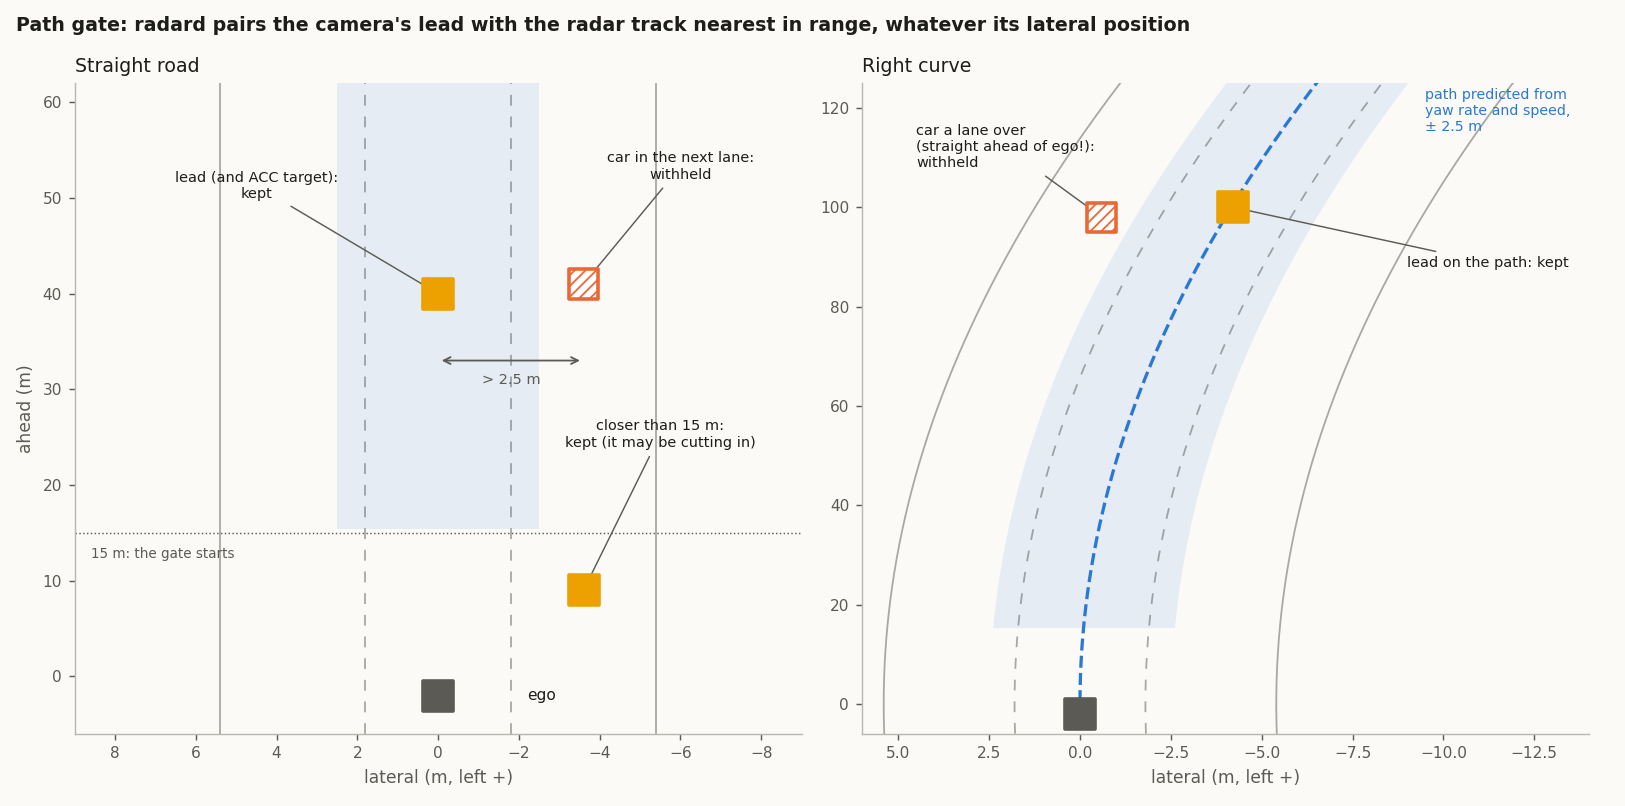
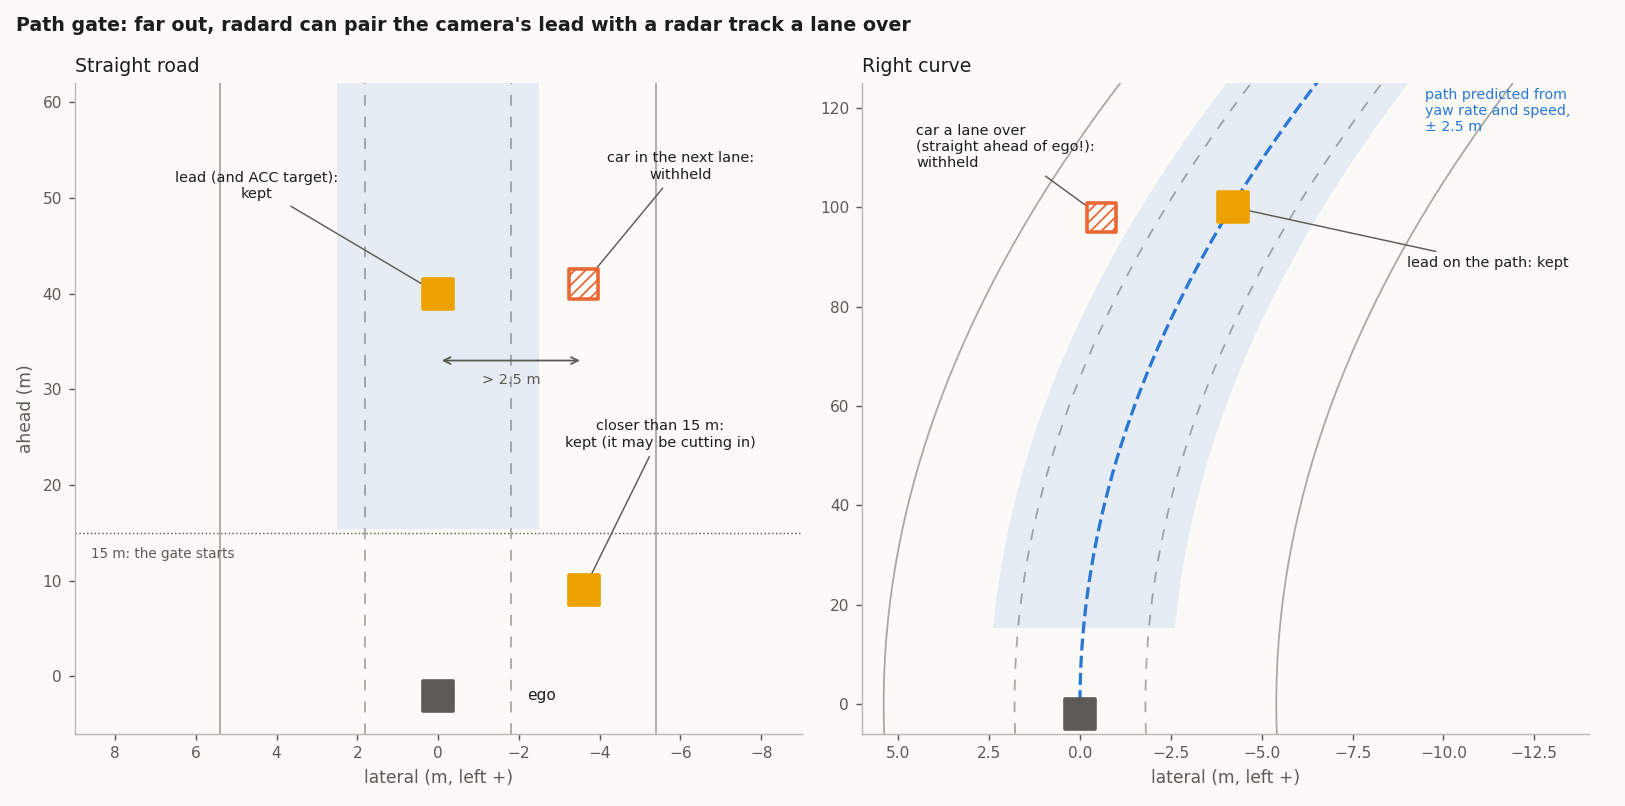
docs: second confirmation pass; radard lateral weighting; listing table from its JSON; privacy check catches route fragments (#96)

Changed region(s): [[0.0923, 0.0, 0.7385, 0.062]]

diff --git a/upstream/ars510_radar.py b/upstream/ars510_radar.py
@@ -6,9 +6,9 @@ object; the radar keeps an object in its slot while the slot's age counts up, wh
 
 The slot speed has slow, correlated errors at range (false closings of 1-10 s beyond ~40 m). The radar reports their
 size in 240|7. One Kalman filter per track fuses the slot speed, weighted by that code, with the radar's own ACC target
-(0x235 / 0x237) for the track it describes. radard then filters as for any radar. radard pairs the vision lead with
-the track nearest in range and has no lateral gate, so beyond 15 m a track a lane away from the yaw-predicted path
-is not published.
+(0x235 / 0x237) for the track it describes. radard then filters as for any radar. radard's lead match weights
+lateral position only through the camera's uncertainty, so beyond 15 m a track a lane away from the yaw-predicted path
+is withheld.
 Single-file candidate for upstream; ars510-radar docs/12 has the evidence for every constant and every omitted part.
 """
 import zlib

diff --git a/openpilot/ars510_radar_interface.py b/openpilot/ars510_radar_interface.py
@@ -12,7 +12,8 @@ Worth knowing (docs/07, docs/08, docs/12):
   - vRel has occasional 1-10 s excursions (mostly false closings beyond 40 m); the default `fused` speed filter handles them;
   - the radar drops new stationary objects once ego is above ~2-3 m/s, so a car that was already stopped when it came
     into view comes from vision;
-  - radard pairs the vision lead with the radar track nearest in range; `fused` adds a yaw-rate path gate.
+  - radard weights lateral position only through the camera's uncertainty when it picks the lead; `fused` adds a
+    yaw-rate path gate.
 
 Why there is no CANParser: the object list is ONE 742-byte record sent as 106 ISO-TP-style frames on 0x80 every
 ~60 ms. CANParser keeps only the latest value per address (or a per-call list in vl_all), and a DBC cannot say which

diff --git a/tools/make_guide_figures.py b/tools/make_guide_figures.py
@@ -116,7 +116,7 @@ def lead_guards() -> None:
   _car(ax, path[k] + 3.6, 98, S2, kept=False); ax.annotate("car a lane over\n(straight ahead of ego!):\nwithheld", (path[k] + 3.6, 98),
                                                        xytext=(4.5, 108), fontsize=8, arrowprops=dict(arrowstyle="-", color=INK2, lw=0.8))
   ax.set_title("Right curve", loc="left"); ax.set_xlabel("lateral (m, left +)")
-  fig.suptitle("Path gate: radard pairs the camera's lead with the radar track nearest in range, whatever its lateral position",
+  fig.suptitle("Path gate: far out, radard can pair the camera's lead with a radar track a lane over",
                x=0.01, ha="left", fontsize=10.5, color=INK, weight="bold")
   fig.tight_layout(); fig.savefig(OUT / "guide_lead_guards.png", dpi=130); plt.close(fig)
 

diff --git a/tools/check_privacy.py b/tools/check_privacy.py
@@ -20,6 +20,8 @@ REPO = Path(__file__).resolve().parents[1]
 BINARY = {".png", ".jpg", ".jpeg", ".gif", ".gz", ".parquet", ".zst", ".bz2", ".pdf", ".pyc"}
 PATTERNS = {  # privacy-ok
   "openpilot route id": re.compile(r"\b[0-9a-f]{8}--[0-9a-f]{10}\b"),  # privacy-ok
+  # a bare 10-hex route part next to the word "route" (for example a route named in a JSON note); needs a letter and a digit
+  "openpilot route fragment": re.compile(r"\broute[ _:=\"']{1,3}(?=[0-9a-f]{0,9}[a-f])(?=[0-9a-f]{0,9}\d)[0-9a-f]{10}\b", re.I),  # privacy-ok
   "openpilot route name (date form)": re.compile(r"\b\d{4}-\d{2}-\d{2}--\d{2}-\d{2}-\d{2}\b"),  # privacy-ok
   # 16 hex characters with both a digit and a letter, not a decimal fraction; the replay harness's fixed fake dongle
   # id a510a510a510a510 is allowed

diff --git a/ars510/interface.py b/ars510/interface.py
@@ -85,7 +85,8 @@ class NativeInterfaceConfig:
     acc_match_min_age: int = 20
     acc_sticky_jump_m: float = 8.0
     acc_sticky_max_cost: float = 4.0
-    # Path gate (radard has no lateral gate and pairs the vision lead with the track nearest in range): beyond
+    # Path gate (radard weights lateral position only through the camera's uncertainty and checks only distance and
+    # speed, so far out it can pair the vision lead with a car a lane over): beyond
     # path_gate_min_range_m, a track other than the ACC target's that is more than path_gate_m from the ego path predicted
     # from yaw rate and speed (constant curvature: y - yaw / v * d^2 / 2) is withheld: a car a lane over, also on a
     # curve. Closer in, cars moving into the lane must stay visible.

diff --git a/tools/make_analysis_figures.py b/tools/make_analysis_figures.py
@@ -344,7 +344,7 @@ def fault_injection():
         ax.set_ylim(0, 1)
     np.atleast_1d(axes)[0].set_ylabel("share of ticks radard picks the ghost")
     np.atleast_1d(axes)[0].legend(fontsize=8)
-    fig.suptitle("radard pairs by range: with the real lead missing, a ghost at the lead's distance and speed becomes the lead at every offset tested", y=1.02)
+    fig.suptitle("With the real lead missing, a ghost at the lead's distance and speed becomes radard's lead at every offset tested", y=1.02)
     save(fig, "radard_lateral_gate")
 
 

diff --git a/tests/test_privacy.py b/tests/test_privacy.py
@@ -13,6 +13,7 @@ CASES = [
   ("local home path", "/" + "home" + "/sample"),
   ("device recording path", "/data" + "/media/0" + "/realdata"),
   ("private IP address", ".".join(("172", "16", "0", "1"))),
+  ("openpilot route fragment", "route " + "1a2b3c4d" + "5e"),
 ]
 
 

diff --git a/docs/10_research_directions.md b/docs/10_research_directions.md
@@ -67,8 +67,8 @@ Proposed study:
 The goal: tell a velocity excursion from a real closing within about 1 s ([07](07_velocity_excursions.md)).
 
 1. **A far-range truth drive.** Following a second car that logs its own speed (a second comma device, or a 5-10 Hz GNSS
-   logger) at 40-120 m gives the lead's true velocity. The video-looming reference covers 40-110 m, with few windows
-   beyond 100 m, and shares the camera with the vision model.
+   logger) at 40-120 m gives the lead's true velocity. The video-looming reference spans 10-130 m, with 148 of its 2,657
+   windows beyond 90 m, and shares the camera with the vision model.
 2. **The first second of an excursion.** Velocity steps of a consistent size and sign at onset would point to
    wrong-branch Doppler measurements leaking into the tracker; ordinary-sized steps point to low-SNR tracking
    ([07](07_velocity_excursions.md#what-the-radars-waveform-allows)).
@@ -134,7 +134,7 @@ What other openpilot radar interfaces read from their radars, and the ARS510 cou
 | per-track **measured vs predicted** state (`RadarPoint.measured`) | Toyota `VALID` + `SCORE`, Rivian `STATE`, Tesla `Meas` | `107\|1` = predicted (◐) and `16\|8` = existence probability (◐); the fork build publishes `measured = not predicted` for forks that carry the field; upstream openpilot has deprecated it | in place in the fork build; excursions arrive on measured records, so this is hygiene |
 | **new-track** flag | Toyota `NEW_TRACK`, Rivian new states | derived from the age field (●) | in place |
 | the radar's own **relative** speed | `REL_SPEED` on Toyota, Honda, Hyundai, Chrysler | over-ground speed (`64\|10`) minus 0xB4 ego speed | the ACC target carries a relative speed for the followed car |
-| relative **acceleration** | Hyundai `REL_ACCEL`, Tesla `LongAccel` | `84\|10` over-ground acceleration (◐, lags 0.5-1 s); the ACC target's relative acceleration (●) | calibrate `84\|10` against independent motion |
+| relative **acceleration** | Hyundai `REL_ACCEL`, Tesla `LongAccel` | `84\|10` over-ground acceleration (◐, lags about 0.5 s); the ACC target's relative acceleration (●) | calibrate `84\|10` against independent motion |
 | **lateral speed** | Tesla `LatSpeed` | `74\|10` (◐, 0.147-0.155 m/s per code against the gyro, `decode_references.json`) | already published as `yvRel` where forks carry it |
 | radar **fault / blockage** status | Honda `RADAR_STATE`, Tesla `sensorBlocked` | "no record for 0.5 s" is reported; candidates: Toyota's car-bus 0x411 `PCS_HUD` alerts (`PCS_DUST2` sensor blocked, `PCS_INDICATOR` = 2 fault), the camera's object-list acknowledgement (0x101 byte 0, 0x197), and a long idle run of 0x680 while driving (longest 1.0 s in 7.8 h of normal driving) | a drive with a covered or dirty radar, or in heavy rain or snow, shows which of them reacts |
 | measurement **uncertainty** | (rarely exposed) | `224/232/240/248\|7` family, scaled against the radar's ACC target | physical units would let radard weight radar against vision |
@@ -165,8 +165,8 @@ upstream). A test keeps it equal to `fused` point for point (bundled samples; on
 `install.py --profile openpilot` drives it on a fork. What upstream review is likely to ask, from recent openpilot / opendbc radar PRs:
 
 1. **A clear reason the filter belongs in the interface.** Every upstream radar interface except Ford's passes the radar's
-   tracks through. The ARS510's object list has slow, correlated speed errors whose width the radar reports (`240|7`) as a
-   continuous scale; the unfiltered decode asks for hard braking three times as often as `fused`
+   tracks through. The ARS510's object list has slow, correlated speed errors whose width the radar's `240|7` code
+   follows as a continuous scale (◐); the unfiltered decode asks for hard braking three times as often as `fused`
    ([`profiles_vs_vision.json`](../data/analysis/summaries/profiles_vs_vision.json)). The candidate's test covers the filter
    (unfiltered, the bundled excursion dives to −6 m/s). The same weighting could live in radard instead (a per-point speed
    variance), leaving the interface a pass-through. Processing in the interface has precedent: openpilot's Ford

diff --git a/docs/12_kalman_filter.md b/docs/12_kalman_filter.md
@@ -1,7 +1,7 @@
 # 12. The Kalman speed filter
 
 The object list's speed has slow, correlated errors at range: false closings of 1-10 s beyond about 40 m
-([07](07_velocity_excursions.md)). The radar reports their size in `240|7`, as a width: a per-reading error scale. The default
+([07](07_velocity_excursions.md)). Their size follows the radar's `240|7` code, a per-reading error width (◐). The default
 `fused` profile handles them with **one Kalman filter per track** on the lead's speed over ground. Every reading is
 weighted by its own uncertainty: the object list and the radar's ACC target. radard then runs its usual filter on what
 this one publishes.
@@ -27,7 +27,7 @@ publish      vRel = v − v_ego                 first publication once √P ≤ 
 |---|---|---|
 | object-list speed `64\|10` | 0.045 m/s × max(`240\|7`, 1); × 1.8 up to age 60, tapering to × 1 at age 100 | `240\|7` scales with the error against the ACC target ([07](07_velocity_excursions.md#far-range-excursions-match-the-reported-velocity-error-scale)); young tracks err 1.4-2× more |
 | ACC target speed (0x235 at 0.125 m/s per code, + ego speed) | 0.5 m/s | the radar's own ACC tracker, for the one track it matches by position ([05](05_acc_target_and_support.md)) |
-| summary speed (0x192 / 0x194 range, (code − 160) / 16 m; 1 s slope), fork option, off | 0.5 m/s, up to 80 m | the positions of the radar's selected targets, each attached to the track at that position (range within 15 %, lateral within 1 m); not used on the ACC track ([below](#what-the-summaries-do)) |
+| summary speed (0x192 / 0x194 range, (code − 160) / 16 m; 1 s slope), fork option, off | 0.5 m/s, up to 80 m | the positions of the radar's selected targets, each attached to the track at that position (range within max(5 m, 15 %), lateral within 1 m); not used on the ACC track ([below](#what-the-summaries-do)) |
 
 The ACC target's units are checked against the absolute `0x680` range ([05](05_acc_target_and_support.md#units-of-the-acc-target)).
 
@@ -158,8 +158,9 @@ run; hard radar-only braking stayed at 30 held-out ticks throughout
 
 ## Path gate
 
-radard pairs the vision lead with the radar track nearest in range, whatever its lateral position, so a car in the next
-lane at the lead's range can become the lead. On 2.1 road drives this caused one of the two mild unprompted slowdowns
+radard picks the radar track that best matches the vision lead in distance, lateral position and speed (each weighted by
+the camera's uncertainty) and then checks only distance and speed, so far out a car in the next lane at the lead's
+range can become the lead. On 2.1 road drives this caused one of the two mild unprompted slowdowns
 (about 1.5 m/s², driver on the gas) and a hard brake in a second car's replay. Beyond 15 m, a track other than the ACC
 target's that is more than 2.5 m from the ego path predicted from yaw rate and speed (constant curvature,
 `y − yaw / v · d² / 2`) is withheld. Closer in it stays, so cars moving into the lane at 8-10 m keep their justified

diff --git a/docs/02_object_list.md b/docs/02_object_list.md
@@ -103,22 +103,21 @@ A slot's life, as the fields show it ([03](03_slot_fields.md) has every field):
 
 The object list behaves like an ACC list: it lists **moving objects** and objects it saw moving.
 
-- Every new object is decided at about **age 5 (0.3 s)**. A new object whose over-ground speed is below about
-  0.2-0.4 m/s is mostly deleted then, more often the faster ego drives.
+- Every new object is decided at about **age 5 (0.3 s)**. A slow new object is deleted then more often the
+  faster ego drives: below 0.2 m/s over ground, 44 % survive with ego at most 2 m/s and 7 % above 10 m/s.
 - **Objects first seen moving keep their track after they stop.** Stopped leads in a queue are tracked through the stop.
-- Slow movers (0.7-3 m/s: pedestrians, cyclists, creeping cars) are mostly kept at every ego speed.
+- Objects moving faster than 0.8 m/s over ground are kept 78-85 % at every ego speed.
 - While ego is stopped, the radar also lists objects that have stayed stationary.
 
-| ego speed | new object < 0.2 m/s kept | 0.2-0.4 m/s kept | ≥ 0.8 m/s kept |
-|---|---|---|---|
-| ≤ 2 m/s | 41-56% | 58-71% | 60-100% |
-| 2-5 m/s | 34% | 67% | 57-100% |
-| 5-10 m/s | 12% | 46% | 71-88% |
-| > 10 m/s | 6-7% | 27-30% | 47-100% |
+| ego speed | new object < 0.2 m/s kept | 0.2-0.4 m/s | 0.4-0.8 m/s | > 0.8 m/s |
+|---|---|---|---|---|
+| ≤ 2 m/s | 44% (296) | 65% (117) | 60% (52) | 85% (296) |
+| 2-5 m/s | 34% (32) | 67% (21) | 88% (8) | 80% (101) |
+| 5-10 m/s | 12% (51) | 46% (46) | 48% (31) | 78% (417) |
+| > 10 m/s | 7% (86) | 29% (51) | 52% (31) | 83% (1,335) |
 
-*Share of new tracks (2,849 of 4,051 in these speed bins) surviving the age-5 decision; ranges span the drive groups
-([summary](../data/analysis/summaries/stationary_listing_rule.json), ranges in
-[`decode_claim_sources.json`](../data/analysis/summaries/decode_claim_sources.json)).*
+*Share of new objects surviving the age-5 decision (object count in brackets; 2,971 of 4,051 tracks fall in these bins;
+[summary](../data/analysis/summaries/stationary_listing_rule.json)).*
 
 ![rain, stopped queue](img/shots/rain_stopped_queue.jpg)
 

diff --git a/README.md b/README.md
@@ -116,7 +116,7 @@ other radar interfaces: [docs/11](docs/11_profiles_compared.md). The filter itse
 | **Car-bus target report** (0x366, 5 Hz) | ◐ mostly the ACC target, also reports without one: relative speed 0.5 km/h, distance ≈ 0.8 m, lateral 0.34 m per code ([13](docs/13_car_bus_messages.md)) |
 | **Single-object stream** (0x680, 2 Hz) | ● range at 1/32 m; ◐ one tracked object, mostly stationary roadside objects: lateral position and speed, stationary / oncoming / moving flags ([05](docs/05_acc_target_and_support.md)) |
 | **Event pair** (0x195 / 0x196) | ● raw payloads; ◐ a short-time-to-collision state ([05](docs/05_acc_target_and_support.md#0x195--0x196-event-pair)) |
-| **Metadata cells** (0x85) | ◐ ten lane / road-boundary curves; ○ remaining cell fields ([04](docs/04_metadata_record_0x85.md)) |
+| **Metadata cells** (0x85) | ◐ ten lane / road-boundary curves; remaining cell fields raw ([04](docs/04_metadata_record_0x85.md)) |
 | **openpilot integration** | installable on openpilot, sunnypilot and StarPilot; replayed end to end; driven by the owner on FrogPilot, StarPilot and sunnypilot ([08](docs/08_openpilot_integration.md)) |
 
 ● confirmed · ◐ likely · ○ candidate

diff --git a/docs/08_openpilot_integration.md b/docs/08_openpilot_integration.md
@@ -121,7 +121,8 @@ radard (openpilot, September 2026) runs at the model's 20 Hz:
 - **Matching needs a vision lead.** radard matches a radar track to the vision lead while the lead probability is
   above 0.5, with a distance gate of max(5 m, 25%) and a permissive velocity check. Matching runs afresh every tick,
   so the radar lead follows whichever car the camera currently selects.
-- **Range-only pairing.** radard pairs by distance and speed. If the true lead is missing from the radar list, an
+- **Weak lateral weighting.** radard scores distance, lateral position and speed against the camera's lead, each
+  weighted by the camera's uncertainty, and checks only distance and speed afterwards. If the true lead is missing from the radar list, an
   adjacent-lane object at the right distance and speed becomes the lead 34-75% of the time, still 34-46% at 6 m
   offset. `fused`'s path gate withholds such tracks beyond 15 m ([12](12_kalman_filter.md#path-gate)); the radar's
   own lane weights ([03](03_slot_fields.md#lane-assignment)) could supply a gate inside radard.
